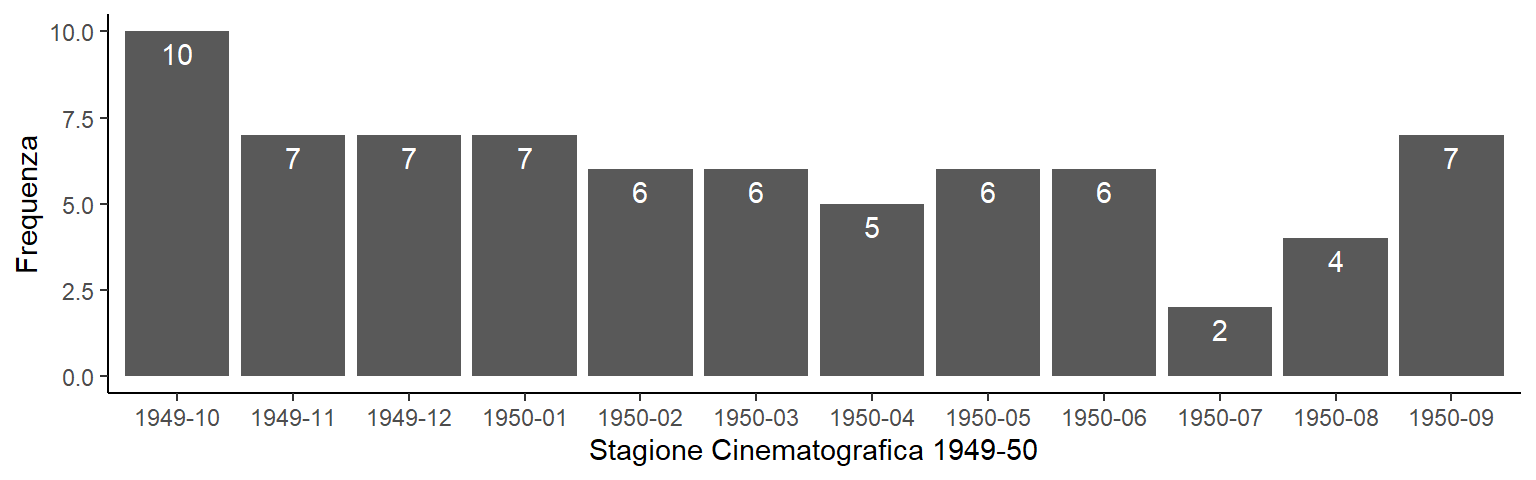
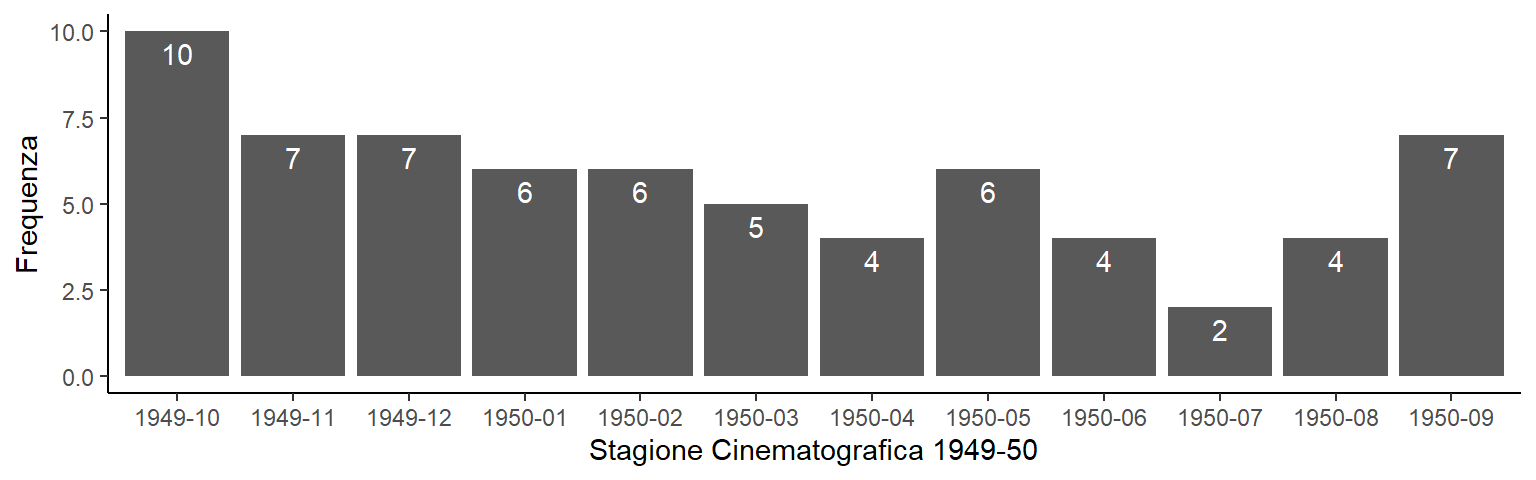
amended text and database, added new chart

diff --git a/content/agende/1949-10-01-agenda-cinematografica-1949-1950/index.md b/content/agende/1949-10-01-agenda-cinematografica-1949-1950/index.md
@@ -12,25 +12,27 @@ tags:
   - CinemaTeatroSestito
 ---
 
-La stagione del 1949-1950 è stata caratterizzata da un'offerta eccezionale di film, con ben 68 proiezioni uniche, una media di 6 al mese. Ottobre si è rivelato il mese più ricco, con ben 10 film, offrendo agli spettatori un'ampia scelta di pellicole da apprezzare.
+La stagione del 1949-1950 è caratterizzata da un'offerta eccezionale di film, con ben 68 proiezioni uniche (una media di 6 al mese). Ottobre si è rivelato il mese più ricco, con ben 10 film, offrendo agli spettatori un'ampia scelta di pellicole da apprezzare.
 
 <img src="{{< blogdown/postref >}}index_files/figure-html/unnamed-chunk-1-1.png" width="768" style="display: block; margin: auto;" />
 
-Il viaggio cinematografico di questa stagione a San Vito prende il via con [Il ventesimo duca](https://www.imdb.com/title/tt0215327/) (1945) di Lucio de Caro. Tra le particolarità di questa stagione troviamo l'entusiasmante serie di film [Duello col pirata nero](https://www.imdb.com/title/tt0030725/) (1938) di Elmer Clifton. Questa serie completa, che in totale dura 5 ore, senza dubbio teneva gli spettatori sulle spine. Il film, proiettato presumibilmente per l'intera settimana, ha offerto agli spettatori un'avventura avvincente e coinvolgente.
+Il viaggio cinematografico di questa stagione a San Vito prende il via con [Il ventesimo duca](https://www.imdb.com/title/tt0215327/) (1945) di Lucio de Caro. Tra le particolarità di questa stagione troviamo l'entusiasmante serie [Duello col pirata nero](https://www.imdb.com/title/tt0030725/) (1938) di Elmer Clifton. La serie ha una durata di 5 ore e venne presumibilmente proiettata per l'intera settimana, offrendo agli spettatori un'avventura avvincente e coinvolgente.
 
-Il film con anno di produzione più vecchio è [Come tu mi vuoi](https://www.imdb.com/title/tt0022641/) (1932) di George Fitzmaurice. Ben 12 film proiettati durante questa stagione appartenevano all'anno di produzione 1949, il che indica come i film venivano proiettati immediatamente al cinema senza dover passare anni dalla distribuzione. Questo rapido processo di distribuzione ha permesso al pubblico di godere di nuove opere cinematografiche e di rimanere aggiornato sulle ultime novità dell'industria del cinema.
+Il film con anno di produzione più vecchio è [Come tu mi vuoi](https://www.imdb.com/title/tt0022641/) (1932) di George Fitzmaurice. Ben 12 film proiettati durante questa stagione fanno parte all'anno di produzione 1949, questo indica come i film venivano proiettati immediatamente al cinema senza far passare anni dalla data di distribuzione. Questo rapido processo di distribuzione ha permesso al pubblico di godere di nuove opere cinematografiche e di rimanere aggiornato sulle ultime novità dell'industria del cinema.
 
 <img src="{{< blogdown/postref >}}index_files/figure-html/unnamed-chunk-2-1.png" width="768" style="display: block; margin: auto;" />
 
-Tra i film proiettati durante questa stagione, spicca il classico senza tempo King Kong del 1933 diretto da Ernest B. Schoedsack e Merian C. Coope. Grazie a una ridistribuzione nei cinema italiani nel 1948, il maestoso gorilla è tornato sul grande schermo, offrendo al pubblico di San Vito una combinazione sapiente di avventura, romanticismo e fantascienza, arricchita da straordinari effetti speciali che hanno regalato un'esperienza unica e senza precedenti.
+Tra i film proiettati durante questa stagione, spicca il classico senza tempo [King Kong](https://www.imdb.com/title/tt0024216/) del 1933 diretto da Ernest B. Schoedsack e Merian C. Coope. Grazie a una ridistribuzione nei cinema italiani nel 1948, il maestoso gorilla è tornato sul grande schermo, offrendo al pubblico di San Vito una combinazione sapiente di avventura, romanticismo e fantascienza, arricchita da straordinari effetti speciali che hanno regalato un'esperienza unica e senza precedenti.
 
-Un nome che ha risuonato durante questo periodo è stato quello del regista Guido Brignone. La sua firma si è fatta sentire nella proiezione di tre film drammatici: [Monaca santa](https://www.imdb.com/title/tt0037925/) (1949), [Santo disonore](https://www.imdb.com/title/tt0041843/) (1950), e [La sepolta viva](https://www.imdb.com/title/tt0040774/) (1950). Lo stile distintivo di Brugnone avrà forse portato profondità emotiva e narrazioni avvincenti sullo schermo, lasciando un'impronta nel panorama cinematografico del paese.
+Un nome che ha risuonato durante questo periodo è quello del regista Guido Brignone. La sua firma si è fatta sentire nella proiezione di tre film drammatici: [Monaca santa](https://www.imdb.com/title/tt0037925/) (1949), [Santo disonore](https://www.imdb.com/title/tt0041843/) (1950), e [La sepolta viva](https://www.imdb.com/title/tt0040774/) (1950). Lo stile distintivo di Brignone avrà forse portato profondità emotiva e narrazioni avvincenti sullo schermo, lasciando un'impronta nel panorama cinematografico del paese.
 
 Se confrontiamo i dati con le classifiche di IMDb. In cima alla lista dei film più amati troviamo [King Kong](https://www.imdb.com/title/tt0024216/) (1933), [Il demone della carne](https://www.imdb.com/title/tt0038232/) (1946), [Bufera mortale](https://www.imdb.com/title/tt0032811/) (1940), [È accaduto in Europa](https://www.imdb.com/title/tt0039949/) (1947), e [Vita rubata](https://www.imdb.com/title/tt0038813/) (1946).
 
-La maggior parte dei film proiettati durante questa stagione apparteneva al genere drammatico, seguito dai generi comico e avventuroso.
+<img src="{{< blogdown/postref >}}index_files/figure-html/unnamed-chunk-3-1.png" width="768" style="display: block; margin: auto;" />
 
-<img src="{{< blogdown/postref >}}index_files/figure-html/unnamed-chunk-3-1.png" width="576" style="display: block; margin: auto;" />
+La maggior parte dei film proiettati durante questa stagione fanno parte del genere drammatico, seguito dal genere comico e avventuroso.
+
+<img src="{{< blogdown/postref >}}index_files/figure-html/unnamed-chunk-4-1.png" width="576" style="display: block; margin: auto;" />
 
 Tra i 68 film proiettati, ben 28 sono stati prodotti in Italia. Tra questi spicca il primo film di Totò proiettato a San Vito, [Totò cerca casa](https://www.imdb.com/title/tt0041974/) del 1949 diretto da Mario Monicelli e Stefano Vanzina (padre dei fratelli Vanzina). Sempre di Totò troviamo il film [Il ratto delle sabine](https://www.imdb.com/title/tt0038016/) (1945) di Mario Bonnard.
 
@@ -70,7 +72,6 @@ Tra i 68 film proiettati, ben 28 sono stati prodotti in Italia. Tra questi spicc
 |1949-12-18         |[Santo disonore](https://www.imdb.com/title/tt0041843/)|
 |1949-12-30         |[Le chiavi del paradiso](https://www.imdb.com/title/tt0036983/)|
 |1949-12-31         |[Totò cerca casa](https://www.imdb.com/title/tt0041974/)|
-|1950-01-01         |[Le chiavi del paradiso](https://www.imdb.com/title/tt0036983/)|
 |1950-01-04         |[King Kong](https://www.imdb.com/title/tt0024216/)|
 |1950-01-14         |[Antonio di Padova](https://www.imdb.com/title/tt0041126/)|
 |1950-01-20         |[La vedova allegra](https://www.imdb.com/title/tt0025493/)|
@@ -85,7 +86,6 @@ Tra i 68 film proiettati, ben 28 sono stati prodotti in Italia. Tra questi spicc
 |1950-02-28         |[Vita rubata](https://www.imdb.com/title/tt0038813/)|
 |1950-03-04         |[Il demone della gelosia](https://www.imdb.com/title/tt0200523/)|
 |1950-03-07         |[Come tu mi vuoi](https://www.imdb.com/title/tt0022641/)|
-|1950-03-12         |[Difendo mia figlia](https://www.imdb.com/title/tt0165938/)|
 |1950-03-14         |[La foresta incantata](https://www.imdb.com/title/tt0037672/)|
 |1950-03-17         |[Il segreto di don Giovanni](https://www.imdb.com/title/tt0039809/)|
 |1950-03-24         |[La sepolta viva](https://www.imdb.com/title/tt0040774/)|
@@ -93,7 +93,6 @@ Tra i 68 film proiettati, ben 28 sono stati prodotti in Italia. Tra questi spicc
 |1950-04-08         |[Il bacio della morte](https://www.imdb.com/title/tt0039536/)|
 |1950-04-18         |[Marco Visconti](https://www.imdb.com/title/tt0032758/)|
 |1950-04-22         |[Salomè](https://www.imdb.com/title/tt0038046/)|
-|1950-04-28         |[Casta Diva](https://www.imdb.com/title/tt0026188/)|
 |1950-05-05         |[La collana della regina](https://www.imdb.com/title/tt0207295/)|
 |1950-05-07         |[La casa senza tempo](https://www.imdb.com/title/tt0035719/)|
 |1950-05-12         |[La figlia del peccato - Voce è notte](https://www.imdb.com/title/tt0041365/)|
@@ -101,8 +100,6 @@ Tra i 68 film proiettati, ben 28 sono stati prodotti in Italia. Tra questi spicc
 |1950-05-20         |[La mano della morta](https://www.imdb.com/title/tt0041633/)|
 |1950-05-23         |[I maledetti](https://www.imdb.com/title/tt0039615/)|
 |1950-06-01         |[La santa cittadina](https://www.imdb.com/title/tt0178337/)|
-|1950-06-10         |[Monaca santa](https://www.imdb.com/title/tt0037925/)|
-|1950-06-14         |[I maledetti](https://www.imdb.com/title/tt0039615/)|
 |1950-06-16         |[La figlia della Madonna](https://www.imdb.com/title/tt0041366/)|
 |1950-06-22         |[Il conte Ugolino](https://www.imdb.com/title/tt0041261/)|
 |1950-06-29         |[Nel paese delle meraviglie](https://www.imdb.com/title/tt0024852/)|
